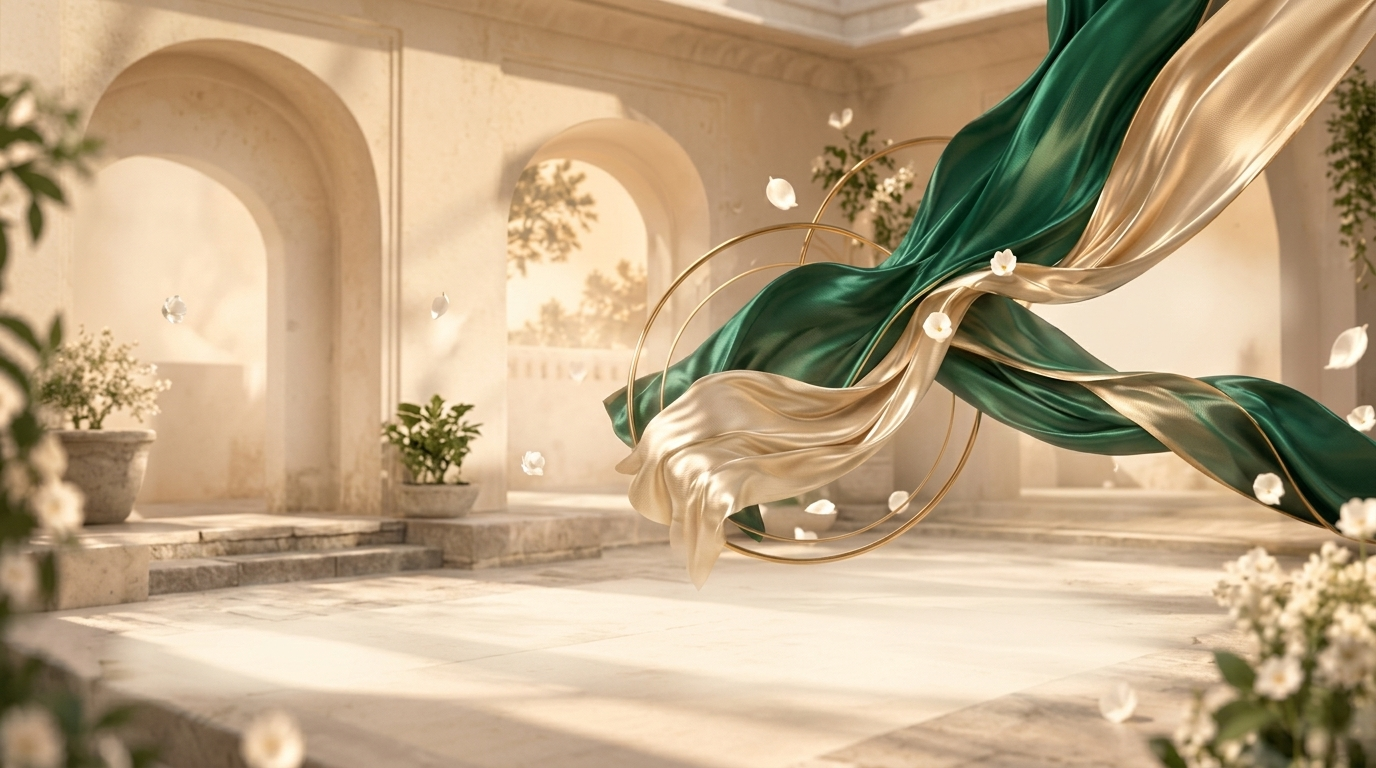
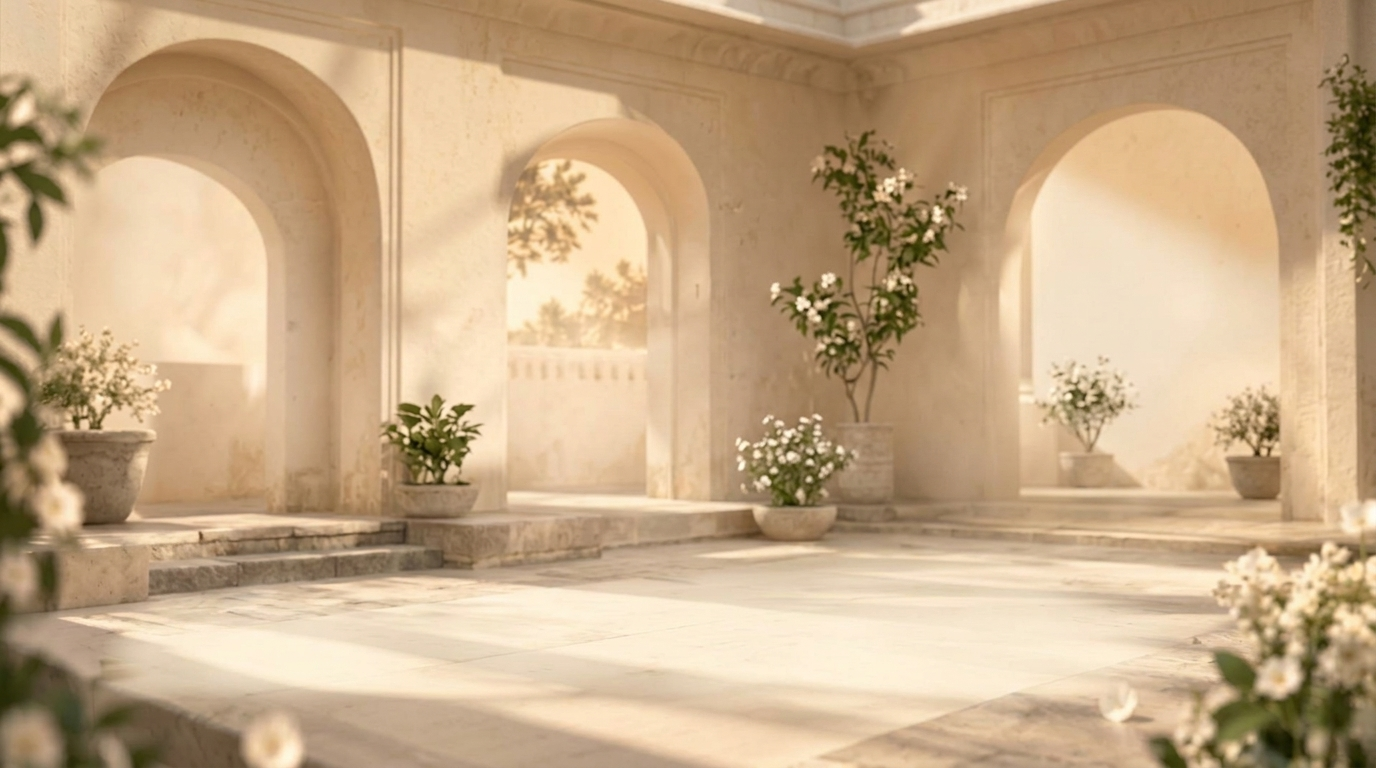
refactor(home): remove background 3D fabric ribbons and rings while retaining subtle floating leaves and petals

diff --git a/src/components/home/LuxuryHero3DBackground.tsx b/src/components/home/LuxuryHero3DBackground.tsx
@@ -51,9 +51,9 @@ export function LuxuryHero3DBackground() {
 
     // Petal initialization
     const getPetalCount = (w: number) => {
-      if (w < 768) return 8; // Mobile
-      if (w < 1024) return 14; // Tablet
-      return 26; // Desktop
+      if (w < 768) return 10; // Mobile
+      if (w < 1024) return 18; // Tablet
+      return 30; // Desktop
     };
 
     let petals: Petal[] = [];
@@ -129,7 +129,7 @@ export function LuxuryHero3DBackground() {
     // Petal drawing helper
     const drawPetal = (
       p: Petal,
-      time: number,
+      _time: number,
       pX: number,
       pY: number,
       parallaxScale: number,
@@ -200,240 +200,6 @@ export function LuxuryHero3DBackground() {
       ctx.restore();
     };
 
-    // 3D Ring drawing helper
-    const draw3DRing = (
-      cx: number,
-      cy: number,
-      radiusX: number,
-      radiusY: number,
-      tiltAngle: number,
-      rotAngle: number,
-      pX: number,
-      pY: number,
-      parallaxMult: number,
-      strokeWidth: number,
-      opacity: number,
-    ) => {
-      ctx.save();
-      ctx.translate(cx + pX * parallaxMult, cy + pY * parallaxMult);
-      ctx.rotate(tiltAngle);
-
-      // 3D perspective simulated via scale and rotation
-      const cosRot = Math.cos(rotAngle);
-
-      ctx.beginPath();
-      ctx.ellipse(
-        0,
-        0,
-        radiusX,
-        radiusY * Math.abs(cosRot) + 6,
-        rotAngle * 0.4,
-        0,
-        Math.PI * 2,
-      );
-
-      // Metallic gold gradient stroke with specular shine
-      const grad = ctx.createLinearGradient(
-        -radiusX,
-        -radiusY,
-        radiusX,
-        radiusY,
-      );
-      grad.addColorStop(0, `rgba(180, 142, 60, ${opacity * 0.4})`);
-      grad.addColorStop(0.25, `rgba(255, 248, 220, ${opacity * 0.95})`);
-      grad.addColorStop(0.5, `rgba(218, 175, 70, ${opacity * 0.7})`);
-      grad.addColorStop(0.75, `rgba(255, 242, 195, ${opacity * 0.9})`);
-      grad.addColorStop(1, `rgba(160, 120, 45, ${opacity * 0.5})`);
-
-      ctx.strokeStyle = grad;
-      ctx.lineWidth = strokeWidth;
-      ctx.shadowColor = "rgba(212, 175, 55, 0.35)";
-      ctx.shadowBlur = 12;
-      ctx.stroke();
-
-      ctx.restore();
-    };
-
-    // Silk wave drawing helper (Parametric luxury cloth simulation)
-    const drawSilkWaves = (
-      time: number,
-      pX: number,
-      pY: number,
-      isMobileView: boolean,
-    ) => {
-      ctx.save();
-
-      // Coordinates anchor based on screen size
-      const originX = isMobileView
-        ? width * 0.62 + pX * 12
-        : width * 0.68 + pX * 24;
-      const originY = isMobileView
-        ? height * 0.08 + pY * 8
-        : height * 0.12 + pY * 16;
-      const waveWidth = isMobileView ? width * 0.42 : width * 0.38;
-      const waveHeight = isMobileView ? height * 0.45 : height * 0.65;
-
-      const t = time * 0.00065;
-
-      // Ribbon 1: Sumptuous Emerald Green Silk
-      ctx.beginPath();
-      const pointsTop: [number, number][] = [];
-      const pointsBottom: [number, number][] = [];
-      const segments = 24;
-
-      for (let i = 0; i <= segments; i++) {
-        const u = i / segments;
-        const x = originX + u * waveWidth;
-        // Natural multi-frequency cloth wave
-        const wave1 = Math.sin(t * 1.8 + u * 4.2) * 22;
-        const wave2 = Math.cos(t * 1.2 + u * 6.5) * 14;
-        const archCurve = Math.sin(u * Math.PI) * (waveHeight * 0.32);
-        const yTop =
-          originY + u * (waveHeight * 0.75) + wave1 + wave2 - archCurve;
-        const ribbonThickness =
-          (isMobileView ? 45 : 75) + Math.sin(t * 1.5 + u * 3) * 16;
-        const yBottom = yTop + ribbonThickness;
-
-        pointsTop.push([x, yTop]);
-        pointsBottom.push([x, yBottom]);
-      }
-
-      ctx.moveTo(pointsTop[0][0], pointsTop[0][1]);
-      for (let i = 1; i < pointsTop.length; i++) {
-        const xc = (pointsTop[i - 1][0] + pointsTop[i][0]) / 2;
-        const yc = (pointsTop[i - 1][1] + pointsTop[i][1]) / 2;
-        ctx.quadraticCurveTo(pointsTop[i - 1][0], pointsTop[i - 1][1], xc, yc);
-      }
-      ctx.lineTo(
-        pointsTop[pointsTop.length - 1][0],
-        pointsTop[pointsTop.length - 1][1],
-      );
-
-      ctx.lineTo(
-        pointsBottom[pointsBottom.length - 1][0],
-        pointsBottom[pointsBottom.length - 1][1],
-      );
-      for (let i = pointsBottom.length - 2; i >= 0; i--) {
-        const xc = (pointsBottom[i + 1][0] + pointsBottom[i][0]) / 2;
-        const yc = (pointsBottom[i + 1][1] + pointsBottom[i][1]) / 2;
-        ctx.quadraticCurveTo(
-          pointsBottom[i + 1][0],
-          pointsBottom[i + 1][1],
-          xc,
-          yc,
-        );
-      }
-      ctx.closePath();
-
-      // Emerald silk luxurious sheen gradient
-      const emeraldGrad = ctx.createLinearGradient(
-        originX,
-        originY,
-        originX + waveWidth,
-        originY + waveHeight,
-      );
-      emeraldGrad.addColorStop(0, "rgba(10, 48, 35, 0.88)");
-      emeraldGrad.addColorStop(0.28, "rgba(22, 92, 70, 0.94)");
-      emeraldGrad.addColorStop(0.52, "rgba(38, 138, 105, 0.92)");
-      emeraldGrad.addColorStop(0.74, "rgba(18, 78, 58, 0.86)");
-      emeraldGrad.addColorStop(1, "rgba(8, 35, 26, 0.82)");
-
-      ctx.fillStyle = emeraldGrad;
-      ctx.shadowColor = "rgba(4, 25, 18, 0.4)";
-      ctx.shadowBlur = 24;
-      ctx.fill();
-
-      // Satin highlight rim along the top fold
-      ctx.beginPath();
-      ctx.moveTo(pointsTop[0][0], pointsTop[0][1]);
-      for (let i = 1; i < pointsTop.length; i++) {
-        const xc = (pointsTop[i - 1][0] + pointsTop[i][0]) / 2;
-        const yc = (pointsTop[i - 1][1] + pointsTop[i][1]) / 2;
-        ctx.quadraticCurveTo(pointsTop[i - 1][0], pointsTop[i - 1][1], xc, yc);
-      }
-      ctx.strokeStyle = "rgba(110, 205, 170, 0.45)";
-      ctx.lineWidth = isMobileView ? 1.5 : 2.5;
-      ctx.stroke();
-
-      // Ribbon 2: Flowing Champagne Gold Satin (Gracefully draped alongside emerald)
-      ctx.beginPath();
-      const goldTop: [number, number][] = [];
-      const goldBottom: [number, number][] = [];
-
-      for (let i = 0; i <= segments; i++) {
-        const u = i / segments;
-        const x = originX - (isMobileView ? 20 : 35) + u * (waveWidth * 0.95);
-        const wave =
-          Math.sin(t * 1.6 + u * 4.5 + 1.2) * 18 +
-          Math.cos(t * 1.1 + u * 5.8) * 12;
-        const yTop =
-          originY + (isMobileView ? 35 : 55) + u * (waveHeight * 0.68) + wave;
-        const thickness =
-          (isMobileView ? 32 : 55) + Math.sin(t * 1.4 + u * 3.2) * 12;
-        const yBottom = yTop + thickness;
-
-        goldTop.push([x, yTop]);
-        goldBottom.push([x, yBottom]);
-      }
-
-      ctx.moveTo(goldTop[0][0], goldTop[0][1]);
-      for (let i = 1; i < goldTop.length; i++) {
-        const xc = (goldTop[i - 1][0] + goldTop[i][0]) / 2;
-        const yc = (goldTop[i - 1][1] + goldTop[i][1]) / 2;
-        ctx.quadraticCurveTo(goldTop[i - 1][0], goldTop[i - 1][1], xc, yc);
-      }
-      ctx.lineTo(
-        goldTop[goldTop.length - 1][0],
-        goldTop[goldTop.length - 1][1],
-      );
-
-      ctx.lineTo(
-        goldBottom[goldBottom.length - 1][0],
-        goldBottom[goldBottom.length - 1][1],
-      );
-      for (let i = goldBottom.length - 2; i >= 0; i--) {
-        const xc = (goldBottom[i + 1][0] + goldBottom[i][0]) / 2;
-        const yc = (goldBottom[i + 1][1] + goldBottom[i][1]) / 2;
-        ctx.quadraticCurveTo(
-          goldBottom[i + 1][0],
-          goldBottom[i + 1][1],
-          xc,
-          yc,
-        );
-      }
-      ctx.closePath();
-
-      const champagneGrad = ctx.createLinearGradient(
-        originX - 30,
-        originY + 40,
-        originX + waveWidth,
-        originY + waveHeight + 50,
-      );
-      champagneGrad.addColorStop(0, "rgba(245, 230, 190, 0.82)");
-      champagneGrad.addColorStop(0.3, "rgba(255, 248, 225, 0.92)");
-      champagneGrad.addColorStop(0.65, "rgba(224, 185, 105, 0.88)");
-      champagneGrad.addColorStop(1, "rgba(175, 135, 60, 0.78)");
-
-      ctx.fillStyle = champagneGrad;
-      ctx.shadowColor = "rgba(130, 95, 30, 0.3)";
-      ctx.shadowBlur = 18;
-      ctx.fill();
-
-      // Delicate gold highlight ridge
-      ctx.beginPath();
-      ctx.moveTo(goldTop[0][0], goldTop[0][1]);
-      for (let i = 1; i < goldTop.length; i++) {
-        const xc = (goldTop[i - 1][0] + goldTop[i][0]) / 2;
-        const yc = (goldTop[i - 1][1] + goldTop[i][1]) / 2;
-        ctx.quadraticCurveTo(goldTop[i - 1][0], goldTop[i - 1][1], xc, yc);
-      }
-      ctx.strokeStyle = "rgba(255, 250, 235, 0.65)";
-      ctx.lineWidth = isMobileView ? 1.2 : 2;
-      ctx.stroke();
-
-      ctx.restore();
-    };
-
     // Main animation loop
     const render = (now: number) => {
       if (!isVisible) {
@@ -459,53 +225,7 @@ export function LuxuryHero3DBackground() {
       ctx.scale(dpr, dpr);
       ctx.clearRect(0, 0, width, height);
 
-      const isMobile = width < 768;
-      const isTablet = width >= 768 && width < 1024;
-
-      // 1. Draw 3D Metallic Gold Rings behind the silk
-      const ringCX = isMobile ? width * 0.75 : width * 0.72;
-      const ringCY = isMobile ? height * 0.22 : height * 0.28;
-      const ringR1X = isMobile
-        ? width * 0.16
-        : isTablet
-          ? width * 0.14
-          : width * 0.16;
-      const ringR1Y = ringR1X * 0.48;
-
-      const ringTime = elapsed * 0.00045;
-
-      draw3DRing(
-        ringCX,
-        ringCY,
-        ringR1X,
-        ringR1Y,
-        0.35,
-        ringTime,
-        m.x,
-        m.y,
-        38,
-        isMobile ? 1.2 : 2.0,
-        isMobile ? 0.65 : 0.9,
-      );
-
-      draw3DRing(
-        ringCX + (isMobile ? 18 : 35),
-        ringCY + (isMobile ? 22 : 45),
-        ringR1X * 0.82,
-        ringR1Y * 0.85,
-        -0.42,
-        -ringTime * 0.85 + 1.2,
-        m.x,
-        m.y,
-        28,
-        isMobile ? 1.0 : 1.6,
-        isMobile ? 0.5 : 0.8,
-      );
-
-      // 2. Draw Flowing 3D Silk Ribbons
-      drawSilkWaves(elapsed, m.x, m.y, isMobile);
-
-      // 3. Update & Draw Floating White Flower Petals
+      // Update & Draw Floating White Flower Petals
       for (const p of petals) {
         if (!isReducedMotion) {
           p.y += p.fallSpeed;
@@ -546,7 +266,7 @@ export function LuxuryHero3DBackground() {
 
   return (
     <div ref={containerRef} className="luxury-hero-3d-wrap" aria-hidden="true">
-      {/* Layer 1: High-Resolution Architectural Stone Arches Backdrop */}
+      {/* Layer 1: Clean Architectural Stone Arches Backdrop */}
       <div
         ref={backdropRef}
         className="luxury-hero-backdrop-img"
@@ -570,7 +290,7 @@ export function LuxuryHero3DBackground() {
         <div className="luxury-hero-contrast-overlay" />
       </div>
 
-      {/* Layer 2: Real-time 3D Canvas (Silk + Gold Rings + Floating Petals + Depth-of-Field) */}
+      {/* Layer 2: Real-time 3D Canvas (Floating Mogra Petals with Depth-of-Field) */}
       <canvas ref={canvasRef} className="luxury-hero-canvas" />
     </div>
   );
